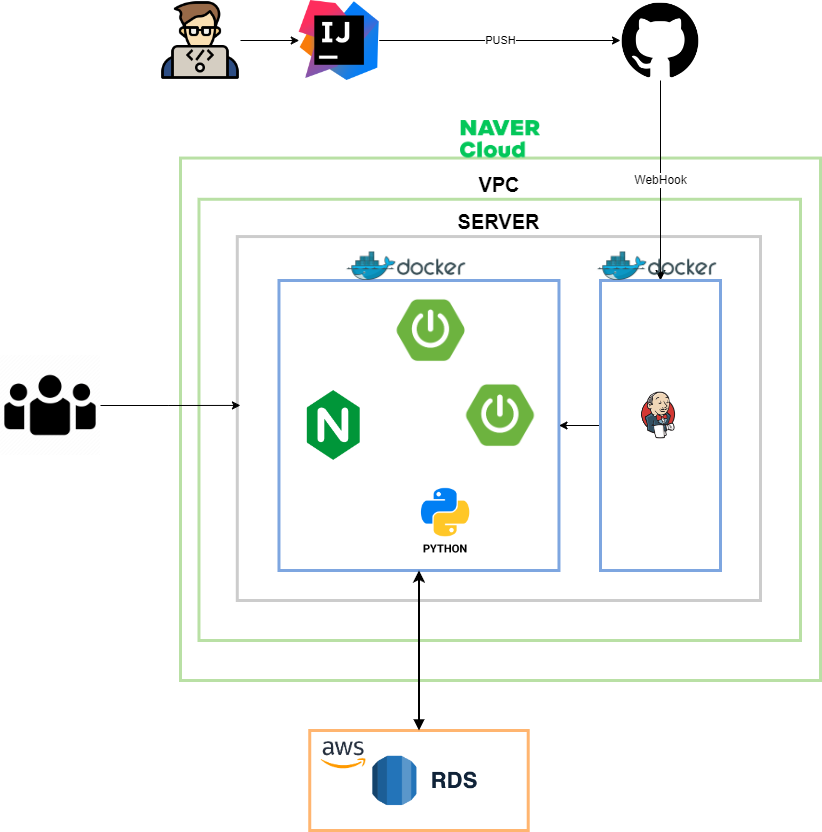
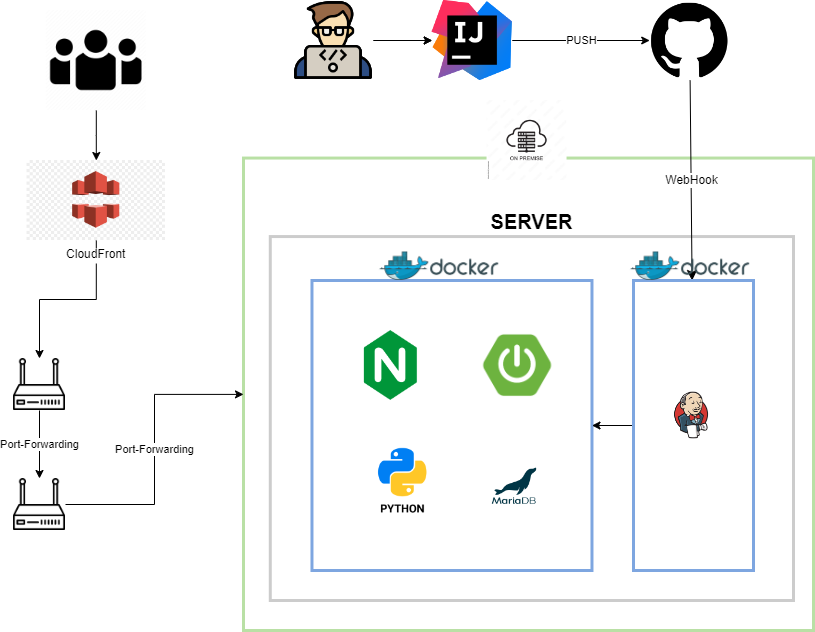
# readme 적용

diff --git a/README.md b/README.md
@@ -27,9 +27,9 @@
 
 <img src="./diagram.png">
 
-- 인프라 구성은 `네이버 클라우드` 통하여 서버 임대 예정이며 비용 및 서버 스펙에 따라서 다른 클라우드(AWS 등..) 환경으로 변경 할 수 있습니다.
+-  인프라 구성은 온프레미스로 구성하였으며, 서버는 도커를 이용하여 컨테이너 기반 서비스를 구축하였습니다.
 - `CI/CD를 구축`으로 개발부터 배포까지 자동화하여 빠르게 서비스를 런칭하게 구성하였습니다.
-- github webhook을 이용하여 `젠킨슨 CI/CD`를 제공할 것 이며, 내부적으로는 `RDS 데이터베이스`를 사용할 것입니다.
+- jenkins, zabbix와 같은 다양한 툴을 이용하여 효율적인 운영을 진행하고자 하였습니다.
 - nginx를 통하여 `로드밸런싱 및 인증 처리`를 진행 할 예정입니다.
 
 ## 3. 개발 환경 및 기술 스택
@@ -39,13 +39,13 @@
 ### Server
 - Java 8
 - Spring 2.7.15
-- Mysql 8.0.35
-- nginx 1.18.0
+- Maria DB 10.6.8
 
 ### Devops
 - jenkis 2.4x
 - docker 26.0.0
-- naver cloud
+- nginx 1.18.0
+- - zabbix
 - github
 
 ### Tool
